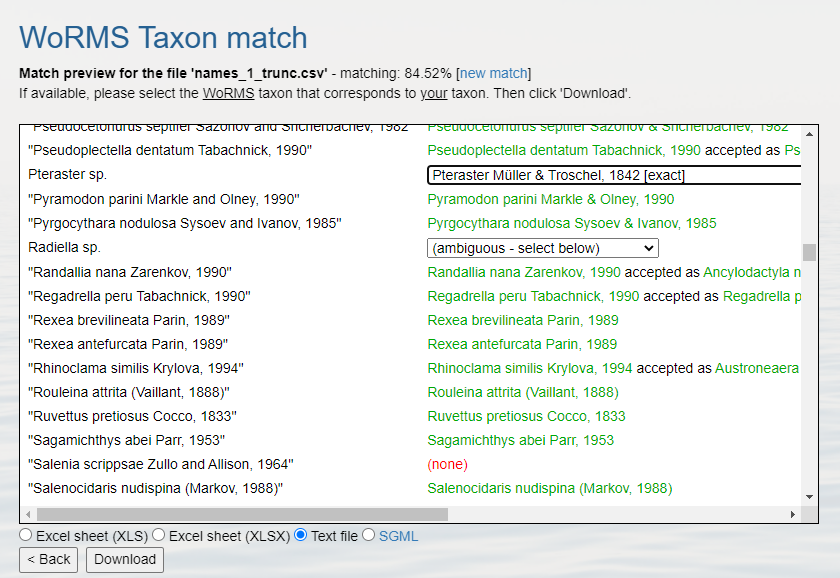
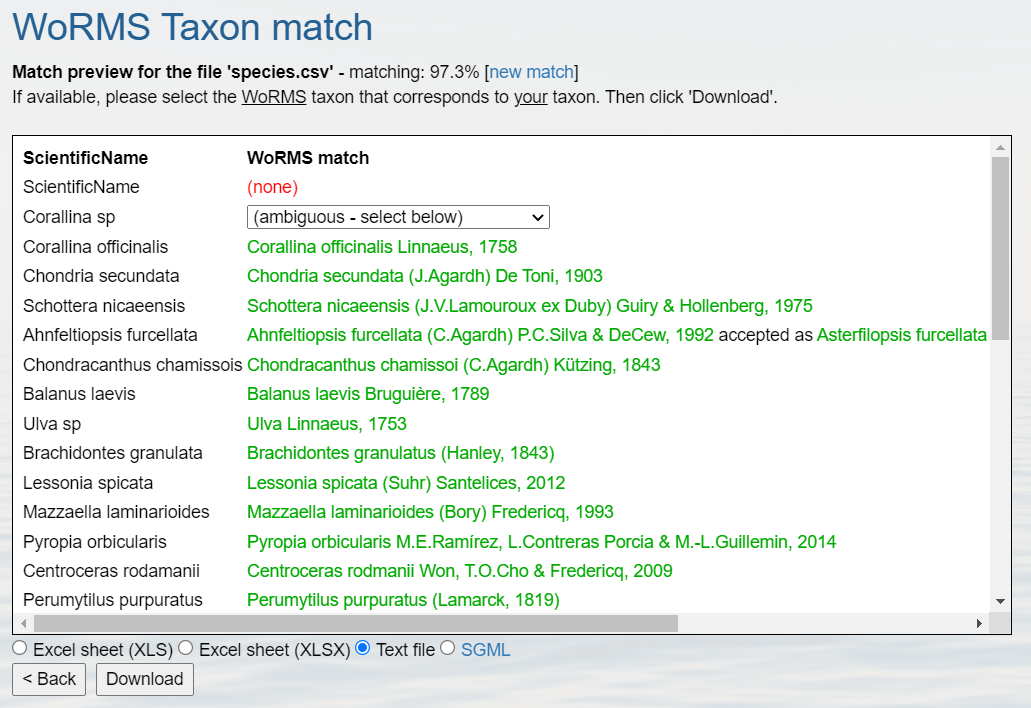
updating data cleaning for taxon match adding new screenshots for example data

Changed region(s): [[0.0, 0.0, 0.9905, 0.9965]]

diff --git a/_episodes/03-data-cleaning.md b/_episodes/03-data-cleaning.md
@@ -304,13 +304,11 @@ The other way to get the taxonomic information you need is to use [worrms](https
 
 > ## Using the WoRMS Taxon Match Tool
 > 1. Create a CSV (comma separated value) file with the scientific name of the species of interest. Here we are showing 
->    the contents of the file `animal.csv`.
->    ```bash
->    > head animal.csv
->    Carcharodon carcharias,
->    ```
+>    some of the contents of the file [`species.csv`]({{ page.root }}/data/species.csv).
+>    ![screenshot]({{ page.root }}/fig/species_file_screenshot.png){: .image-with-shadow }
+>
 > 2. Upload that file to the [WoRMS Taxon match service](https://www.marinespecies.org/aphia.php?p=match)
->    * **make sure the option LSID is checked**  
+>    * **make sure the option LSID is checked**   
 >  ![screenshot]({{ page.root }}/fig/WoRMS_upload.png){: .image-with-shadow }
 > 
 > 3. Identify which columns to match to which WoRMS term.
@@ -322,14 +320,10 @@ The other way to get the taxonomic information you need is to use [worrms](https
 >
 >    1. In some cases you will have ambiguous matches. Resolve the these rows by using the pull down menu to select the appropriate match.
 >    2. Non-matched taxa will appear in red. You will have to go back to your source file and determine what the appropriate text should be.      
-> ![screenshot]({{ page.root }}/fig/WoRMS_TaxonMatch_MatchOutput.PNG){: .image-with-shadow }
+>    ![screenshot]({{ page.root }}/fig/WoRMS_TaxonMatch_MatchOutput.PNG){: .image-with-shadow }
 >    
 > 6. Download the response as and XLS, XLSX, or text file and use the information when building the Darwin Core file(s).
->   ```bash
->   > head animal_matched.txt
->   ScientificName,,AphiaID,Match type,LSID,ScientificName,Taxon status,AphiaID_accepted,ScientificName_accepted
->   Carcharodon carcharias,,105838,exact,urn:lsid:marinespecies.org:taxname:105838,Carcharodon carcharias,accepted,105838,Carcharodon carcharias
->   ```
+>    ![screenshot]({{ page.root }}/fig/matched_species_screenshot.png){: .image-with-shadow }
 {: .solution}
 
 > ## Using the worrms R package
